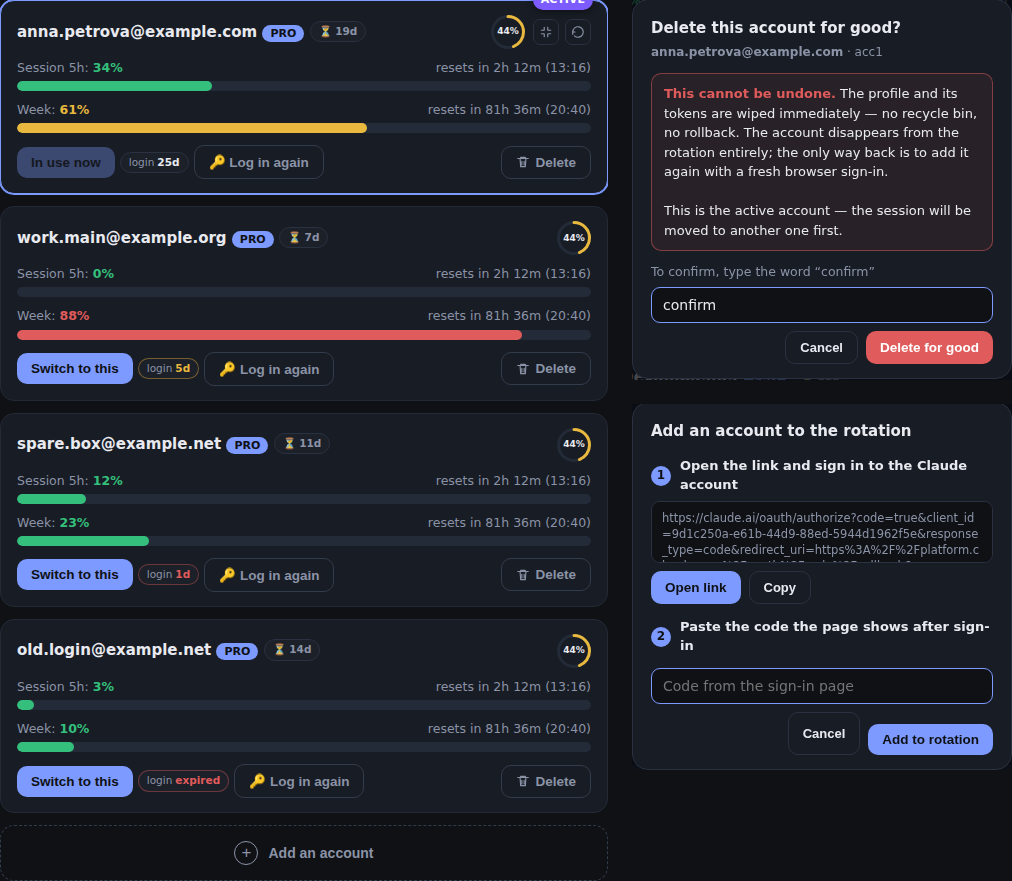
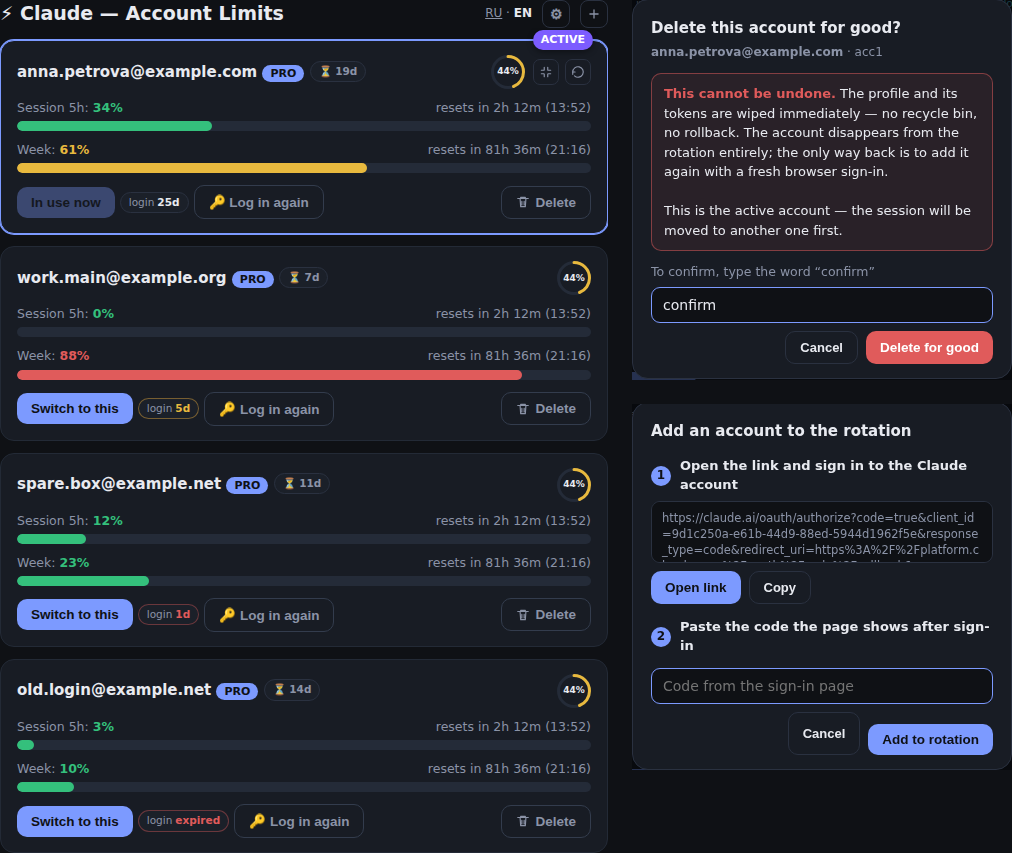
v1.19.1: добавление аккаунта — компактная кнопка «+» в шапке вместо плитки
Плитка «+ Добавить аккаунт» постоянно занимала место в списке карточек.
Теперь это кнопка-иконка рядом с шестерёнкой «Модели» (RU/EN-подсказка,
все пять оформлений); новая карточка появляется только после добавления
аккаунта. Окна и API без изменений.

diff --git a/cc_limits.py b/cc_limits.py
@@ -9,7 +9,7 @@ import cc_avail
 import cc_update
 import pexpect
 
-VERSION = "1.19.0"  # равна версии релиза; cc_update сверяет её с манифестом перед заменой файлов
+VERSION = "1.19.1"  # равна версии релиза; cc_update сверяет её с манифестом перед заменой файлов
 
 # BASE/PROFILES переопределяемы через env только для изолированного тестирования
 # инсталлятора (install.sh их не трогает — на реальном сервере это фиксированные пути,
@@ -2770,9 +2770,7 @@ html[data-skin="blocks"] #fsRoot.fs{background:var(--by)}
 html[data-skin="blocks"] .skopt.on{box-shadow:3px 3px 0 var(--bk);border-color:var(--bk)}
 
 /* ---- добавление/удаление аккаунтов ---- */
-.addtile{display:flex;align-items:center;justify-content:center;gap:10px;width:100%;margin:0 0 12px;padding:15px 16px;background:transparent;border:1.5px dashed #333c4d;color:var(--mut);border-radius:14px;font-size:14px;font-weight:600;cursor:pointer;transition:border-color .15s,color .15s,background .15s}
-.addtile:hover{border-color:var(--acc);color:var(--txt);background:rgba(124,154,255,.06)}
-.addtile .plus{width:24px;height:24px;border-radius:50%;border:1.5px solid currentColor;display:inline-flex;align-items:center;justify-content:center;font-size:17px;line-height:1;font-weight:500;padding-bottom:1px}
+.hdrgear svg{width:14px;height:14px}
 .btn-del{margin:0 0 0 auto;display:inline-flex;align-items:center;gap:5px;background:transparent;border:1px solid #333c4d;color:var(--mut)}
 .btn-del svg{width:14px;height:14px}
 .btn-del:hover:not(:disabled){border-color:var(--bad);color:var(--bad)}
@@ -2791,9 +2789,6 @@ html[data-skin="blocks"] .skopt.on{box-shadow:3px 3px 0 var(--bk);border-color:v
 .dlgurl{word-break:break-all;font-size:11.5px;line-height:1.4;background:#0f1115;border:1px solid #2a3140;border-radius:9px;padding:8px 10px;color:var(--mut);max-height:62px;overflow:auto}
 .dlgrow{display:flex;gap:8px;margin-top:8px}
 .dlgrow button{margin-top:0}
-html[data-skin="phosphor"] .addtile{border:1px dashed var(--phl);border-radius:0;color:var(--phd);font-family:inherit;font-size:12px;text-transform:uppercase;letter-spacing:.08em}
-html[data-skin="phosphor"] .addtile:hover{border-color:var(--ph);color:var(--ph);background:#0c2a17;box-shadow:0 0 14px rgba(109,255,154,.22)}
-html[data-skin="phosphor"] .addtile .plus{border-radius:0}
 html[data-skin="phosphor"] .btn-del{background:transparent;border:1px solid var(--phl);border-radius:0;color:var(--phd);font-family:inherit;font-size:12px;text-transform:uppercase;letter-spacing:.06em}
 html[data-skin="phosphor"] .btn-del:hover:not(:disabled){border-color:#ff6b5e;color:#ff6b5e}
 html[data-skin="phosphor"] .dlgwarn{border:1px dashed #ff6b5e;border-radius:0;background:rgba(255,107,94,.06);color:#ffd9d4}
@@ -2804,8 +2799,6 @@ html[data-skin="phosphor"] #acctBox button:not(.ghostbtn):not(.btn-danger){borde
 html[data-skin="phosphor"] #acctBox .ghostbtn{border-radius:0}
 html[data-skin="phosphor"] .dlgstep i{border-radius:0;background:var(--ph);color:#021006}
 html[data-skin="phosphor"] .dlgurl{background:#020603;border:1px solid var(--phl);border-radius:0;color:var(--phd)}
-html[data-skin="aurora"] .addtile{border:1.5px dashed rgba(255,255,255,.22);border-radius:20px;color:var(--mut);background:rgba(255,255,255,.03)}
-html[data-skin="aurora"] .addtile:hover{border-color:#7de7f7;color:#fff;background:linear-gradient(135deg,rgba(124,92,255,.18),rgba(34,211,238,.12));box-shadow:0 10px 30px -12px rgba(124,92,255,.6)}
 html[data-skin="aurora"] .btn-del{background:rgba(255,255,255,.06);border:1px solid rgba(255,255,255,.14);color:var(--mut);border-radius:99px;font-weight:600}
 html[data-skin="aurora"] .btn-del:hover:not(:disabled){border-color:var(--bad);color:#fff;background:rgba(251,113,133,.16)}
 html[data-skin="aurora"] .dlgwarn{border:1px solid rgba(251,113,133,.45);border-radius:14px;background:rgba(251,113,133,.09)}
@@ -2814,8 +2807,6 @@ html[data-skin="aurora"] .dlginp:focus{border-color:#7de7f7}
 html[data-skin="aurora"] .btn-danger{background:linear-gradient(135deg,#fb7185,#c24bd6);color:#fff;border-radius:99px}
 html[data-skin="aurora"] .dlgstep i{background:linear-gradient(135deg,#7c5cff,#22d3ee);color:#fff}
 html[data-skin="aurora"] .dlgurl{background:rgba(255,255,255,.05);border:1px solid rgba(255,255,255,.14);border-radius:12px}
-html[data-skin="slate"] .addtile{border:1px dashed var(--sl-line2);border-radius:14px;color:var(--sl-dim);font-weight:500}
-html[data-skin="slate"] .addtile:hover{border-color:#4d525d;color:#fff;background:#14161a}
 html[data-skin="slate"] .btn-del{font-family:inherit;font-weight:500;background:transparent;border:1px solid var(--sl-line2);border-radius:7px;color:var(--mut)}
 html[data-skin="slate"] .btn-del:hover:not(:disabled){border-color:var(--bad);color:var(--bad);background:#1b1e24}
 html[data-skin="slate"] .dlgwarn{border:1px solid rgba(239,106,106,.4);border-radius:10px;background:rgba(239,106,106,.07)}
@@ -2825,9 +2816,6 @@ html[data-skin="slate"] .btn-danger{font-weight:500;background:transparent;borde
 html[data-skin="slate"] .btn-danger:hover:not(:disabled){background:var(--bad);color:#0e0f12}
 html[data-skin="slate"] .dlgstep i{background:transparent;border:1px solid var(--sl-line2);color:#c7ccd6}
 html[data-skin="slate"] .dlgurl{background:#0e0f12;border:1px solid var(--sl-line2);border-radius:8px}
-html[data-skin="blocks"] .addtile{background:#fff;border:3px dashed var(--bk);border-radius:0;color:var(--bk);font-weight:800;box-shadow:4px 4px 0 var(--bk)}
-html[data-skin="blocks"] .addtile:hover{background:var(--bl);border-style:solid}
-html[data-skin="blocks"] .addtile .plus{border:2px solid var(--bk);border-radius:0;background:var(--by)}
 html[data-skin="blocks"] .btn-del{background:#fff;border:2px solid var(--bk);color:var(--bk);border-radius:0;font-weight:700;box-shadow:3px 3px 0 var(--bk)}
 html[data-skin="blocks"] .btn-del:hover:not(:disabled){background:var(--bad);color:#fff}
 html[data-skin="blocks"] .dlgwarn{border:2px solid var(--bk);border-radius:0;background:#ffe3e3;color:var(--bk);box-shadow:3px 3px 0 var(--bad)}
@@ -2840,7 +2828,7 @@ html[data-skin="blocks"] .dlgurl{background:#fff;color:var(--bk);border:2px soli
 html[data-skin="blocks"] .dlgerr{color:#c40000;font-weight:700}
 </style></head><body>
 <svg width="0" height="0" style="position:absolute" aria-hidden="true"><filter id="ccPhosphor" color-interpolation-filters="sRGB"><feColorMatrix type="matrix" values="0.1 0.34 0.03 0 0  0.28 0.95 0.1 0 0  0.16 0.52 0.05 0 0  0 0 0 1 0"/></filter></svg>
-<div class="hdr"><h1 id="h1">⚡ Claude — лимиты аккаунтов</h1><div style="display:flex;align-items:center;gap:10px"><div id="langSwitch" style="font-size:12px;color:var(--mut);cursor:pointer;white-space:nowrap"></div><button id="gear" class="hdrgear" title="Модели">⚙</button></div></div>
+<div class="hdr"><h1 id="h1">⚡ Claude — лимиты аккаунтов</h1><div style="display:flex;align-items:center;gap:10px"><div id="langSwitch" style="font-size:12px;color:var(--mut);cursor:pointer;white-space:nowrap"></div><button id="gear" class="hdrgear" title="Модели">⚙</button><button id="addAcct" class="hdrgear" title="Добавить аккаунт" aria-label="Добавить аккаунт" onclick="acctAdd()"><svg viewBox="0 0 24 24" fill="none" stroke="currentColor" stroke-width="2.2" stroke-linecap="round" stroke-linejoin="round"><path d="M12 5v14M5 12h14"/></svg></button></div></div>
 <div class="ccpause" id="updBanner" hidden></div>
 <div id="fsRoot">
 <div class="fsbar" id="fsBar"><span class="fsinfo" id="fsInfo"></span><div class="fsseg"><button type="button" id="fsMFit"></button><button type="button" id="fsMBig"></button></div><button type="button" class="iconbtn" id="fsClose"><svg viewBox="0 0 24 24" fill="none" stroke="currentColor" stroke-width="2" stroke-linecap="round" stroke-linejoin="round"><path d="M18 6 6 18M6 6l12 12"/></svg></button></div>
@@ -2900,7 +2888,7 @@ const I18N={
   switchBlockedTitle:'Заблокировано: включена оптимизация переключений лимитов',
   extended:'Я продлил',
   relogin:'🔑 Войти заново',
-  addTile:'Добавить аккаунт',
+  addBtnTitle:'Добавить аккаунт',
   addTitle:'Добавить аккаунт в ротацию',
   addSub:'Войди в Claude под нужным аккаунтом — после входа он сам встанет в ротацию, настраивать вручную ничего не нужно.',
   addEmailLbl:'Почта аккаунта (необязательно)',
@@ -3063,7 +3051,7 @@ const I18N={
   switchBlockedTitle:'Blocked: limit-switch optimization is on',
   extended:'I renewed',
   relogin:'🔑 Log in again',
-  addTile:'Add an account',
+  addBtnTitle:'Add an account',
   addTitle:'Add an account to the rotation',
   addSub:'Sign in to Claude with the account you want — once you are in, it joins the rotation by itself, no manual setup.',
   addEmailLbl:'Account email (optional)',
@@ -3223,7 +3211,7 @@ function applyI18n(){
  $('#h1').textContent=tr('h1');$('#consoleTitle').textContent=tr('console');
  $('#optLbl').textContent=tr('optLbl');$('#rf').textContent=tr('refresh');
  renderAutoLbl();renderLangSwitch();
- $('#gear').title=tr('modelsBtnTitle');$('#modalTitle').textContent=tr('modelsTitle');
+ $('#gear').title=tr('modelsBtnTitle');$('#addAcct').title=tr('addBtnTitle');$('#addAcct').setAttribute('aria-label',tr('addBtnTitle'));$('#modalTitle').textContent=tr('modelsTitle');
  $('#modelsHdr').textContent=tr('modelsHdr');$('#skinTitle').textContent=tr('skinTitle');buildSkinGrid();
  $('#fsBtn').title=tr('fsOpenTitle');$('#fsClose').title=tr('fsCloseTitle');
  $('#fsMFit').textContent=tr('fsFit');$('#fsMFit').title=tr('fsFitTitle');$('#fsMBig').textContent=tr('fsBig');$('#fsMBig').title=tr('fsBigTitle');
@@ -3418,7 +3406,7 @@ function renderCards(d){
    ${loginChip(a.login_expires)}<button class="btn-relogin" onclick="relogin('${n}',this)">${tr('relogin')}</button>
    <button class="btn-del" title="${tr('delBtnTitle')}" onclick="acctDel('${n}')"><svg viewBox="0 0 24 24" fill="none" stroke="currentColor" stroke-width="2" stroke-linecap="round" stroke-linejoin="round"><path d="M3 6h18M8 6V4h8v2m-9 0 1 14h8l1-14M10 11v6m4-6v6"/></svg>${tr('delBtn')}</button></div>
   </div>`;
- }).join('')+`<button class="addtile" onclick="acctAdd()"><span class="plus">+</span>${tr('addTile')}</button>`;
+ }).join('');
 }
 async function load(refresh){
  const r=await fetch(API+'limits?token='+TOKEN+(refresh?'&refresh=1':''));const d=await r.json();

diff --git a/README.en.md b/README.en.md
@@ -60,8 +60,8 @@ the Russian UI, the panel is bilingual):
 ![Update banner](screenshots/update-banner.png)
 ![Update settings](screenshots/update-settings.png)
 
-Adding and deleting accounts (v1.19.0) — the "+ Add account" tile at the end
-of the list, a "Delete" button on every card and the windows for both flows
+Adding and deleting accounts (v1.19.0) — a "+" button in the header next to the
+gear, a "Delete" button on every card and the windows for both flows
 (deleting only works after typing the confirmation word):
 
 ![Adding and deleting accounts](screenshots/accounts.en.png)
@@ -123,8 +123,8 @@ of the list, a "Delete" button on every card and the windows for both flows
   under a day shows hours, past the date it says "expired"; the tooltip has the
   exact date. Tokens never reach `/api/limits`, only the `login_expires` date
   goes out. Fitted into all five looks.
-- ➕ **Adding and deleting accounts from the panel** (v1.19.0) — an
-  "+ Add account" tile at the end of the list: sign-in link → code from the
+- ➕ **Adding and deleting accounts from the panel** (v1.19.0) — a
+  "+" button in the header next to the gear: sign-in link → code from the
   page → the account joins the rotation by itself. A "Delete" button on the
   card removes an account for good (the profile with its tokens and every
   trace in the snapshot) — if you lose access to an account it no longer sits
@@ -286,7 +286,7 @@ backdrop close the window without doing anything.
 
 ### Adding an account
 
-The **"+ Add account"** tile at the end of the list → a window:
+The **"+"** button in the header (next to the "Models" gear, tooltip "Add an account") → a window:
 
 1. the account's email (optional — it pre-fills the sign-in page so you do not
    have to type it again) → **"Get the sign-in link"**;
@@ -610,6 +610,11 @@ really happens, and what to do about it — [ERRORS.en.md](ERRORS.en.md).
 - HTTPS/certbot — a manual step after `install.sh`.
 
 ## Version history
+
+- **v1.19.1** — adding an account moved from a tile at the end of the list to a
+  compact "+" button in the header next to the "Models" gear (RU/EN tooltip,
+  in all five looks): no permanently hanging empty block, and a new card appears
+  only once an account has been added. The windows and the API are unchanged.
 
 - **v1.19.0** — adding and deleting accounts from the panel. An "+ Add account"
   tile (email optional → sign-in link → code from the page → the account joins
